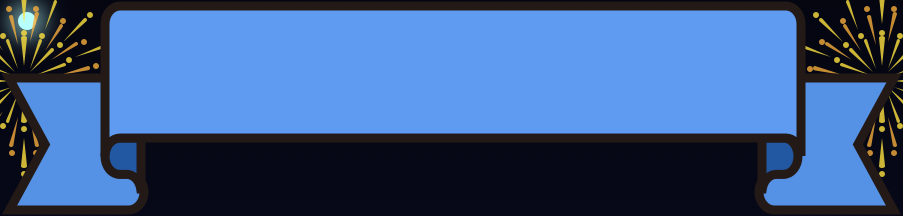
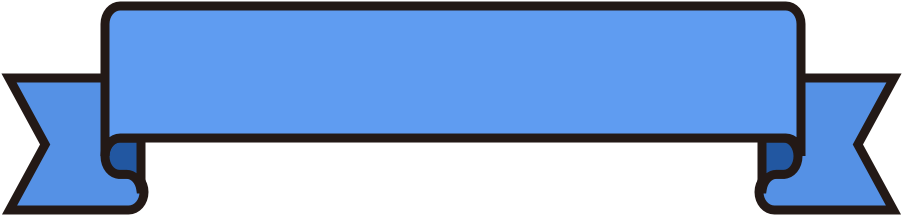
style: 스타일 조정

diff --git a/src/screens/game/GameAllRankingScreen.tsx b/src/screens/game/GameAllRankingScreen.tsx
@@ -69,9 +69,16 @@ const TabContent = styled(TransparentTabView)``;
 const TitleGroup = styled.View`
   flex-direction: column;
   align-items: center;
-  width: 301px;
+  width: 347px;
   height: 72px;
   margin-top: 30px;
+`;
+
+const TitleBackground = styled.View`
+  flex-direction: column;
+  align-items: center;
+  width: 295px;
+  height: 68px;
 `;
 
 const Title = styled(Bold18)`
@@ -84,6 +91,20 @@ const TitleBackgroundImage = styled.Image`
   position: absolute;
   width: 100%;
   height: 100%;
+`;
+
+const TitleBombLeft = styled.Image`
+  position: absolute;
+  width: 64px;
+  height: 64px;
+  left: 0px;
+`;
+
+const TitleBombRight = styled.Image`
+  position: absolute;
+  width: 64px;
+  height: 64px;
+  right: 0px;
 `;
 
 const MonthlyRank = styled.View`
@@ -249,8 +270,12 @@ class GameAllRankingScreen extends Component<Props, States> {
                 ListHeaderComponent: (
                   <RankHeader>
                     <TitleGroup>
-                      <TitleBackgroundImage source={images.bgRankTitle} />
-                      <Title>{todayFormat(DATE_FORMAT1)}의 음잘알</Title>
+                      <TitleBombLeft source={images.bgRankTitleBomb} />
+                      <TitleBombRight source={images.bgRankTitleBomb} />
+                      <TitleBackground>
+                        <TitleBackgroundImage source={images.bgRankTitle} />
+                        <Title>{todayFormat(DATE_FORMAT1)}의 음잘알</Title>
+                      </TitleBackground>
                     </TitleGroup>
                     <TopRankView>
                       <GameTopRankCardView
@@ -307,7 +332,12 @@ class GameAllRankingScreen extends Component<Props, States> {
                 ListHeaderComponent: (
                   <RankHeader>
                     <TitleGroup>
-                      <TitleBackgroundImage source={images.bgRankTitle} />
+                      <TitleBombLeft source={images.bgRankTitleBomb} />
+                      <TitleBombRight source={images.bgRankTitleBomb} />
+                      <TitleBackground>
+                        <TitleBackgroundImage source={images.bgRankTitle} />
+                        <Title>{todayFormat(DATE_FORMAT1)}의 음잘알</Title>
+                      </TitleBackground>
                       <Title>{todayFormat(DATE_FORMAT1)}의 음잘알</Title>
                     </TitleGroup>
                     <PreviousSeasonTop3

diff --git a/src/images/index.ts b/src/images/index.ts
@@ -39,6 +39,7 @@ const images = {
   lightRanking: require("./light_ranking.gif"),
   icWhiteArrowRight: require("./ic_white_arrow.png"),
   icTopArrow: require("./ic_top_arrow.png"),
-  bgRankTitle: require("./bg_rank_title.png")
+  bgRankTitle: require("./bg_rank_title.png"),
+  bgRankTitleBomb: require("./bg_rank_title_bomb.png")
 };
 export default images;
